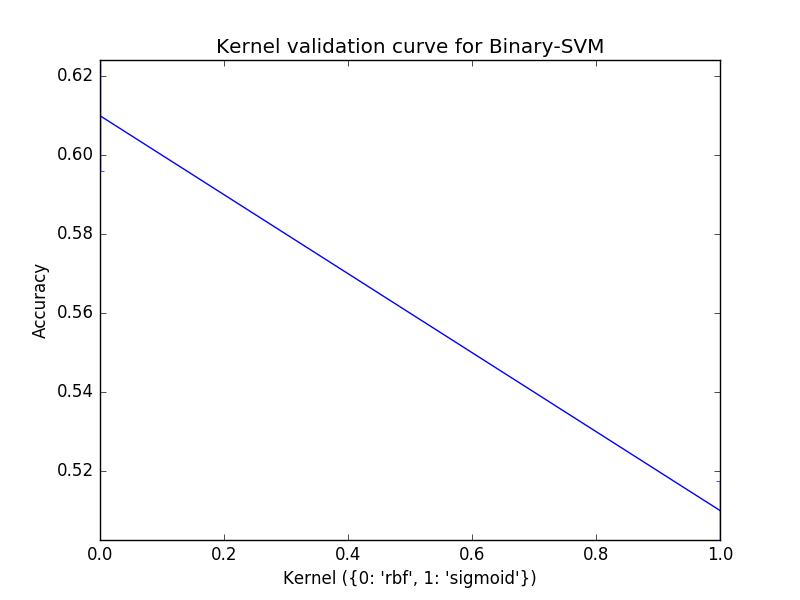
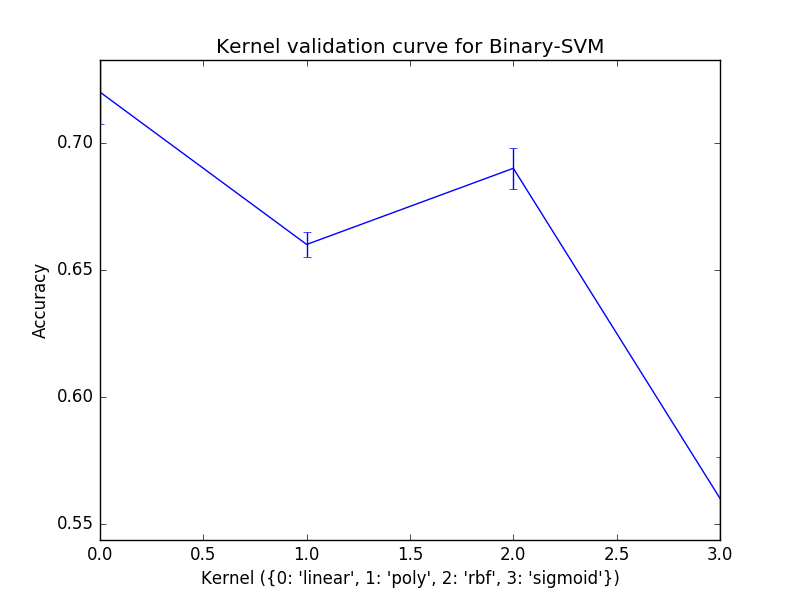
Code cleanup

diff --git a/sources/main.py b/sources/main.py
@@ -182,7 +182,7 @@ class Experiments(object):
 			y_probabilities = y_probabilities[:,1]	
 		elif self.classifierType == 'One-Class-SVM':
 			classifier = self.model(kernel=self.bestKernel, nu=self.bestC, \
-				probability=True, gamma=self.bestGamma)
+				gamma=self.bestGamma)
 			classifier.fit(X_train, self.y_train)
 			y_probabilities = classifier.decision_function(X_test)
 		elif self.classifierType == 'Gradient-Boosting':
@@ -207,7 +207,7 @@ class Experiments(object):
 		precision = true_positives/(true_positives+false_positives)
 		recall = true_positives/(true_positives+false_negatives)
 		f1_score = 2*precision*recall/(precision+recall)
-		with open(os.path.join(CHARTS_FOLDER, 'Test Results.csv'), 'w') as fout:
+		with open(os.path.join(CHARTS_FOLDER, 'Test Results {}.csv'.format(self.classifierType)), 'w') as fout:
 			fout = csv.writer(fout)
 			fout.writerow(['Best Features', self.bestPercentile])
 			fout.writerow(['Best Kernel', self.bestKernel])
@@ -243,7 +243,7 @@ class Experiments(object):
 					probability= True, gamma=self.bestGamma)
 			elif self.classifierType == 'One-Class-SVM':
 				classifier = self.model(kernel=self.bestKernel, nu=self.bestC, \
-					probability=True, gamma=self.bestGamma)
+					gamma=self.bestGamma)
 			elif self.classifierType == 'Gradient-Boosting':
 				classifier = self.model(n_estimators = self.bestKernel,\
 					max_depth = self.bestGamma, probability=True, learning_rate=self.bestC)
@@ -436,23 +436,13 @@ if __name__ == '__main__':
 	percentiles_range = (10, 15, 20, 25, 30, 35, 40, 50, 60, 70, 80, 100)
 	kernels_range = ['linear', 'poly', 'rbf', 'sigmoid']
 	gamma_range = np.logspace(-9, -1, 10)
-	C_range = np.logspace(-2, -1, 2)
-	percentiles_range = (10, 20)
-	gamma_range = np.logspace(-9, -6, 3)
-	kernels_range = ['rbf', 'sigmoid']
 	binarySVMexps = Experiments('Binary-SVM', percentiles_range, kernels_range, gamma_range, C_range)
-	#binarySVMexps.runGridSearch()
-	binarySVMexps.runGreedySearch()
-	binarySVMexps.testAndDrawCurves()
-	#binarySVMexps.runTests()
-	#binarySVMexps.plotCurves()
-	'''
+	#binarySVMexps.runGreedySearch()
+	#binarySVMexps.testAndDrawCurves()
 	nu_range = np.arange(0.05, 1.00, 0.1)
 	oneClassSVMexps = Experiments('One-Class-SVM', percentiles_range, kernels_range, gamma_range, nu_range)
 	oneClassSVMexps.runGreedySearch()
 	oneClassSVMexps.testAndDrawCurves()
-	#oneClassSVMexps.runTests()
-	#oneClassSVMexps.plotCurves()
 	learning_range = np.arange(0.1, 1, 0.1)
 	estimators_range = np.arange(100, 200, 10)
 	depth_range = np.arange(1, 5, 1)
@@ -460,6 +450,3 @@ if __name__ == '__main__':
 		depth_range, learning_range)
 	gradientBoostingexps.runGreedySearch()
 	gradientBoostingexps.testAndDrawCurves()
-	#gradientBoostingexps.runTests()
-	#gradientBoostingexps.plotCurves()
-	'''	
